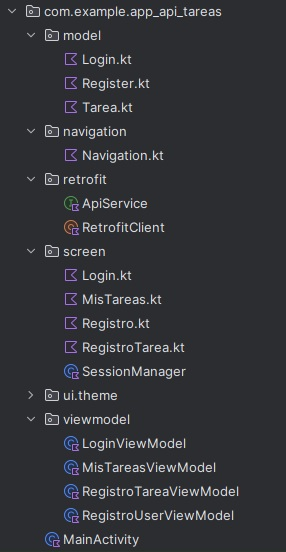
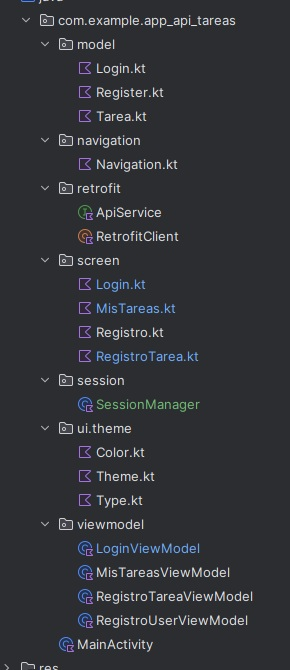
readme

diff --git a/app/src/main/java/com/example/app_api_tareas/session/SessionManager.kt b/app/src/main/java/com/example/app_api_tareas/session/SessionManager.kt
@@ -1,7 +1,8 @@
-package com.example.app_api_tareas.screen
+package com.example.app_api_tareas.session
 
 import android.content.Context
 import android.content.SharedPreferences
+import androidx.core.content.edit
 
 class SessionManager(context: Context) {
     private val sharedPreferences: SharedPreferences =
@@ -14,10 +15,10 @@ class SessionManager(context: Context) {
 
     // Guardar el username y el token
     fun saveUserSession(username: String, token: String) {
-        val editor = sharedPreferences.edit()
-        editor.putString(KEY_USERNAME, username)
-        editor.putString(KEY_TOKEN, token)
-        editor.apply()
+        sharedPreferences.edit() {
+            putString(KEY_USERNAME, username)
+            putString(KEY_TOKEN, token)
+        }
     }
 
     // Obtener el username
@@ -32,8 +33,8 @@ class SessionManager(context: Context) {
 
     // Limpiar la sesión (para logout)
     fun clearSession() {
-        val editor = sharedPreferences.edit()
-        editor.clear()
-        editor.apply()
+        sharedPreferences.edit() {
+            clear()
+        }
     }
 }

diff --git a/app/src/main/java/com/example/app_api_tareas/viewmodel/LoginViewModel.kt b/app/src/main/java/com/example/app_api_tareas/viewmodel/LoginViewModel.kt
@@ -4,7 +4,7 @@ import androidx.lifecycle.ViewModel
 import androidx.lifecycle.viewModelScope
 import com.example.app_api_tareas.model.LoginRequest
 import com.example.app_api_tareas.retrofit.RetrofitClient
-import com.example.app_api_tareas.screen.SessionManager
+import com.example.app_api_tareas.session.SessionManager
 import kotlinx.coroutines.Dispatchers
 import kotlinx.coroutines.flow.MutableStateFlow
 import kotlinx.coroutines.flow.StateFlow

diff --git a/app/src/main/java/com/example/app_api_tareas/screen/RegistroTarea.kt b/app/src/main/java/com/example/app_api_tareas/screen/RegistroTarea.kt
@@ -30,6 +30,7 @@ import androidx.lifecycle.viewmodel.compose.viewModel
 import androidx.navigation.NavController
 import com.example.app_api_tareas.model.TareaRequest
 import com.example.app_api_tareas.retrofit.RetrofitClient
+import com.example.app_api_tareas.session.SessionManager
 import com.example.app_api_tareas.viewmodel.RegistroTareaViewModel
 import kotlinx.coroutines.Dispatchers
 import kotlinx.coroutines.launch

diff --git a/app/src/main/java/com/example/app_api_tareas/screen/MisTareas.kt b/app/src/main/java/com/example/app_api_tareas/screen/MisTareas.kt
@@ -40,6 +40,7 @@ import androidx.navigation.NavController
 import com.example.app_api_tareas.model.Estado
 import com.example.app_api_tareas.model.TareaResponseDTO
 import com.example.app_api_tareas.retrofit.RetrofitClient
+import com.example.app_api_tareas.session.SessionManager
 import com.example.app_api_tareas.viewmodel.MisTareasViewModel
 import kotlinx.coroutines.Dispatchers
 import kotlinx.coroutines.launch

diff --git a/app/src/main/java/com/example/app_api_tareas/screen/Login.kt b/app/src/main/java/com/example/app_api_tareas/screen/Login.kt
@@ -26,6 +26,7 @@ import androidx.compose.ui.unit.dp
 import androidx.compose.ui.unit.sp
 import androidx.lifecycle.viewmodel.compose.viewModel
 import androidx.navigation.NavController
+import com.example.app_api_tareas.session.SessionManager
 import com.example.app_api_tareas.viewmodel.LoginViewModel
 
 @Composable

diff --git a/README.md b/README.md
@@ -21,6 +21,9 @@ En retrofit tenemos nuestro object retrofit que nos dará la conexión con rende
 Aquí también guardamos una interfaz que se encarga de realizar las diferentes peticiones a la API.
 ![api_service.jpg](assets/api_service.jpg)
 
+En session, tenemos un SessionManager que recibe el contexto como parámetro y usa SharedPreferences para almacenar localmente el username y el token cuando el usuario se loguea para usarlo en futuras peticiones mientras la sesión esté activa.
+![sharedPreferences.jpg](assets/sharedPreferences.jpg)
+
 En screen guardamos las diferentes pantallas que contiene nuestra aplicación.
 Ejemplo:
 ![screen.jpg](assets/screen.jpg)
